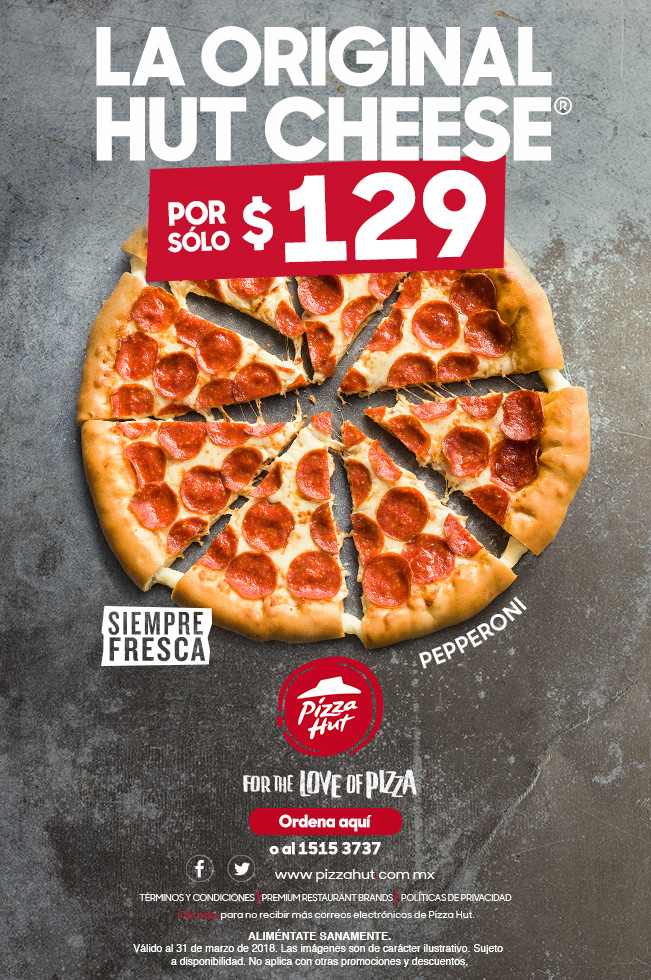
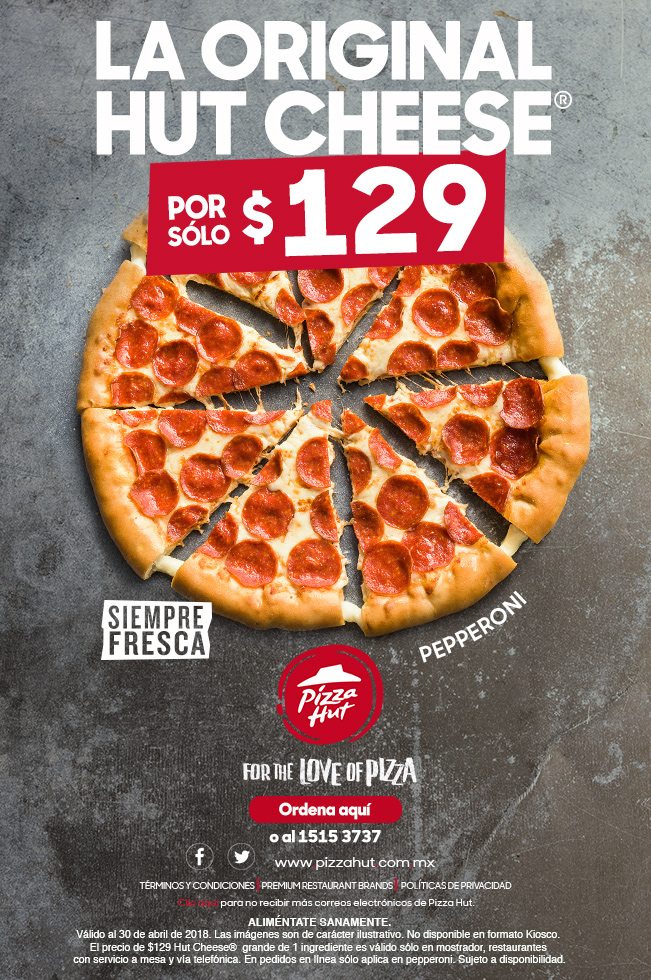
cambia la imagen

diff --git a/index.html b/index.html
@@ -22,15 +22,15 @@
 </table>
 
 <map name="Map">
-    <area href="https://www.pizzahut.com.mx/?utm_source=promotional&utm_medium=email&utm_campaign=del99g" coords="330,709,58" shape="circle">
-    <area href="https://www.pizzahut.com.mx/home?utm_source=promotional&utm_medium=email&utm_campaign=del99g" coords="403,836,248,807" shape="rect">
-    <area href="https://www.facebook.com/pizzahutmexico/?utm_source=promotional&utm_medium=email&utm_campaign=del99g" coords="200,867,15" shape="circle">
-    <area href="https://twitter.com/pizzahut_mexico?utm_source=promotional&utm_medium=email&utm_campaign=del99g" coords="242,868,15" shape="circle">
-    <area href="https://www.pizzahut.com.mx/?utm_source=promotional&utm_medium=email&utm_campaign=del99g" coords="271,871,438,882" shape="rect">
-    <area href="https://www.pizzahut.com.mx/page/875?utm_source=promotional&utm_medium=email&utm_campaign=del99g" coords="138,888,255,904" shape="rect">
-    <area href="http://www.prb.com.mx?utm_source=promotional&utm_medium=email&utm_campaign=del99g" coords="264,892,393,901" shape="rect">
-    <area href="https://www.pizzahut.com.mx/page/880?utm_source=promotional&utm_medium=email&utm_campaign=del99g" coords="403,892,518,901" shape="rect">
-    <area href="http://www.cancelacionesph.com/?utm_source=promotional&utm_medium=email&utm_campaign=del99g" coords="176,909,220,921" shape="rect">
+    <area href="https://www.pizzahut.com.mx/?utm_source=promotional&utm_medium=email&utm_campaign=del99g" coords="328,696,57" shape="circle">
+    <area href="https://www.pizzahut.com.mx/home?utm_source=promotional&utm_medium=email&utm_campaign=del99g" coords="248,793,404,824" shape="rect">
+    <area href="https://www.facebook.com/pizzahutmexico/?utm_source=promotional&utm_medium=email&utm_campaign=del99g" coords="200,857,15" shape="circle">
+    <area href="https://twitter.com/pizzahut_mexico?utm_source=promotional&utm_medium=email&utm_campaign=del99g" coords="241,857,14" shape="circle">
+    <area href="https://www.pizzahut.com.mx/?utm_source=promotional&utm_medium=email&utm_campaign=del99g" coords="272,858,439,868" shape="rect">
+    <area href="https://www.pizzahut.com.mx/page/875?utm_source=promotional&utm_medium=email&utm_campaign=del99g" coords="142,881,257,893" shape="rect">
+    <area href="http://www.prb.com.mx?utm_source=promotional&utm_medium=email&utm_campaign=del99g" coords="265,882,394,891" shape="rect">
+    <area href="https://www.pizzahut.com.mx/page/880?utm_source=promotional&utm_medium=email&utm_campaign=del99g" coords="402,881,516,890" shape="rect">
+    <area href="http://www.cancelacionesph.com/?utm_source=promotional&utm_medium=email&utm_campaign=del99g" coords="175,898,220,909" shape="rect">
     <area href="tel:15153737" coords="300,841,383,853" shape="rect">
 </map>
 </body>
